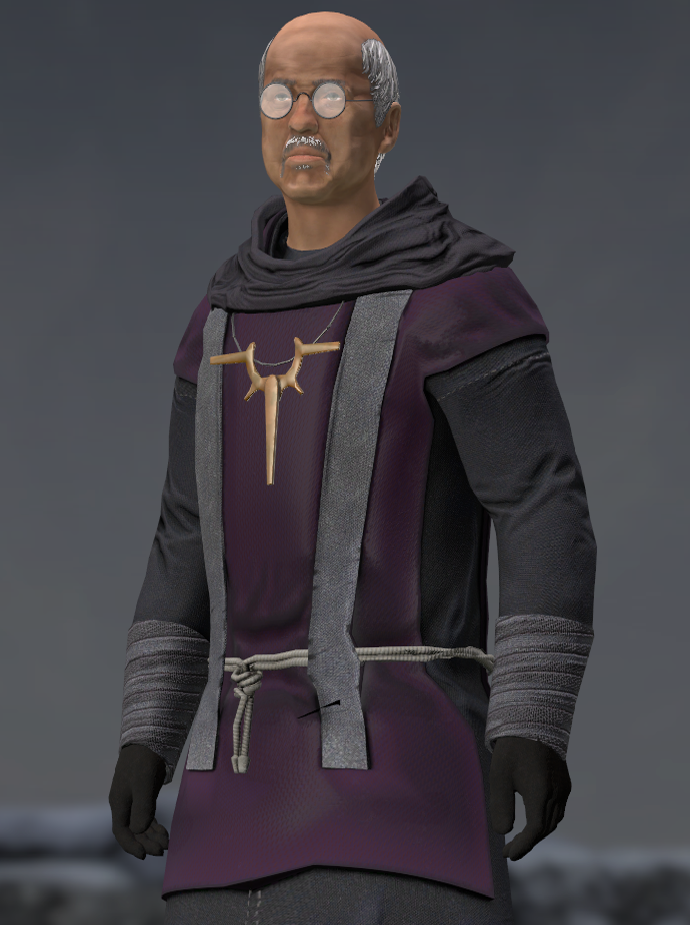
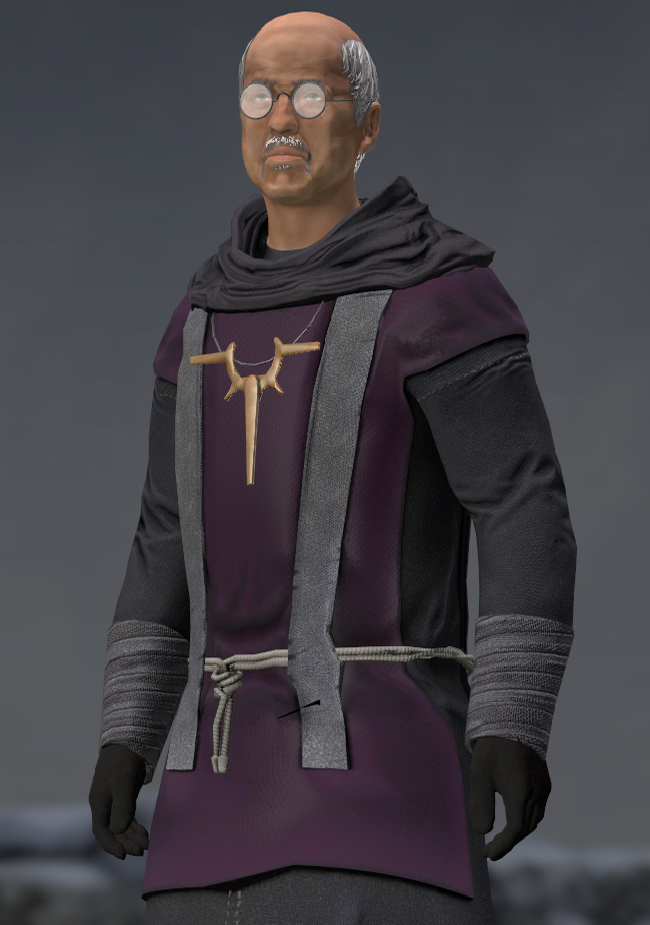
Fixed image scaling

diff --git a/docs/assets/css/custom.css b/docs/assets/css/custom.css
@@ -44,4 +44,8 @@ img[alt=SmallImage] {
 img[alt=Image] {
 	width: 11rem;
 }
+img[alt=Image2] {
+	width: 17rem;
+}
+
 

diff --git a/docs/Factions/Faithkeepers.md b/docs/Factions/Faithkeepers.md
@@ -11,5 +11,5 @@ They see doubt as corruption, and heresy as a contagion more dangerous than the 
 This conviction drives them to impose strict rituals, public penance, and severe punishment for blasphemy or defiance, measures many citizens consider extreme but spiritually necessary.
 For the Faithkeepers, justice is not about law or fairness, but about salvation through belief, unity, and unquestioned devotion.
 
-![Image](../assets/images/faithkeeper1.png)
-![Image](../assets/images/faithkeeper2.png)
+![Image2](../assets/images/faithkeeper1.png)
+![Image2](../assets/images/faithkeeper2.png)

diff --git a/docs/Factions/Frostlanders.md b/docs/Factions/Frostlanders.md
@@ -11,4 +11,4 @@ Their philosophy is ruthless: only the strong deserve to live. They see the gene
 This belief drives them to destroy what they cannot control and scavenge what they cannot replace, valuing survival above morality.
 For the Pilgrims, justice does not exist—only endurance, instinct, and the cold judgment of the frost itself.
 
-![Image](../assets/images/pilgrim.png)
+![](../assets/images/pilgrim.png)
